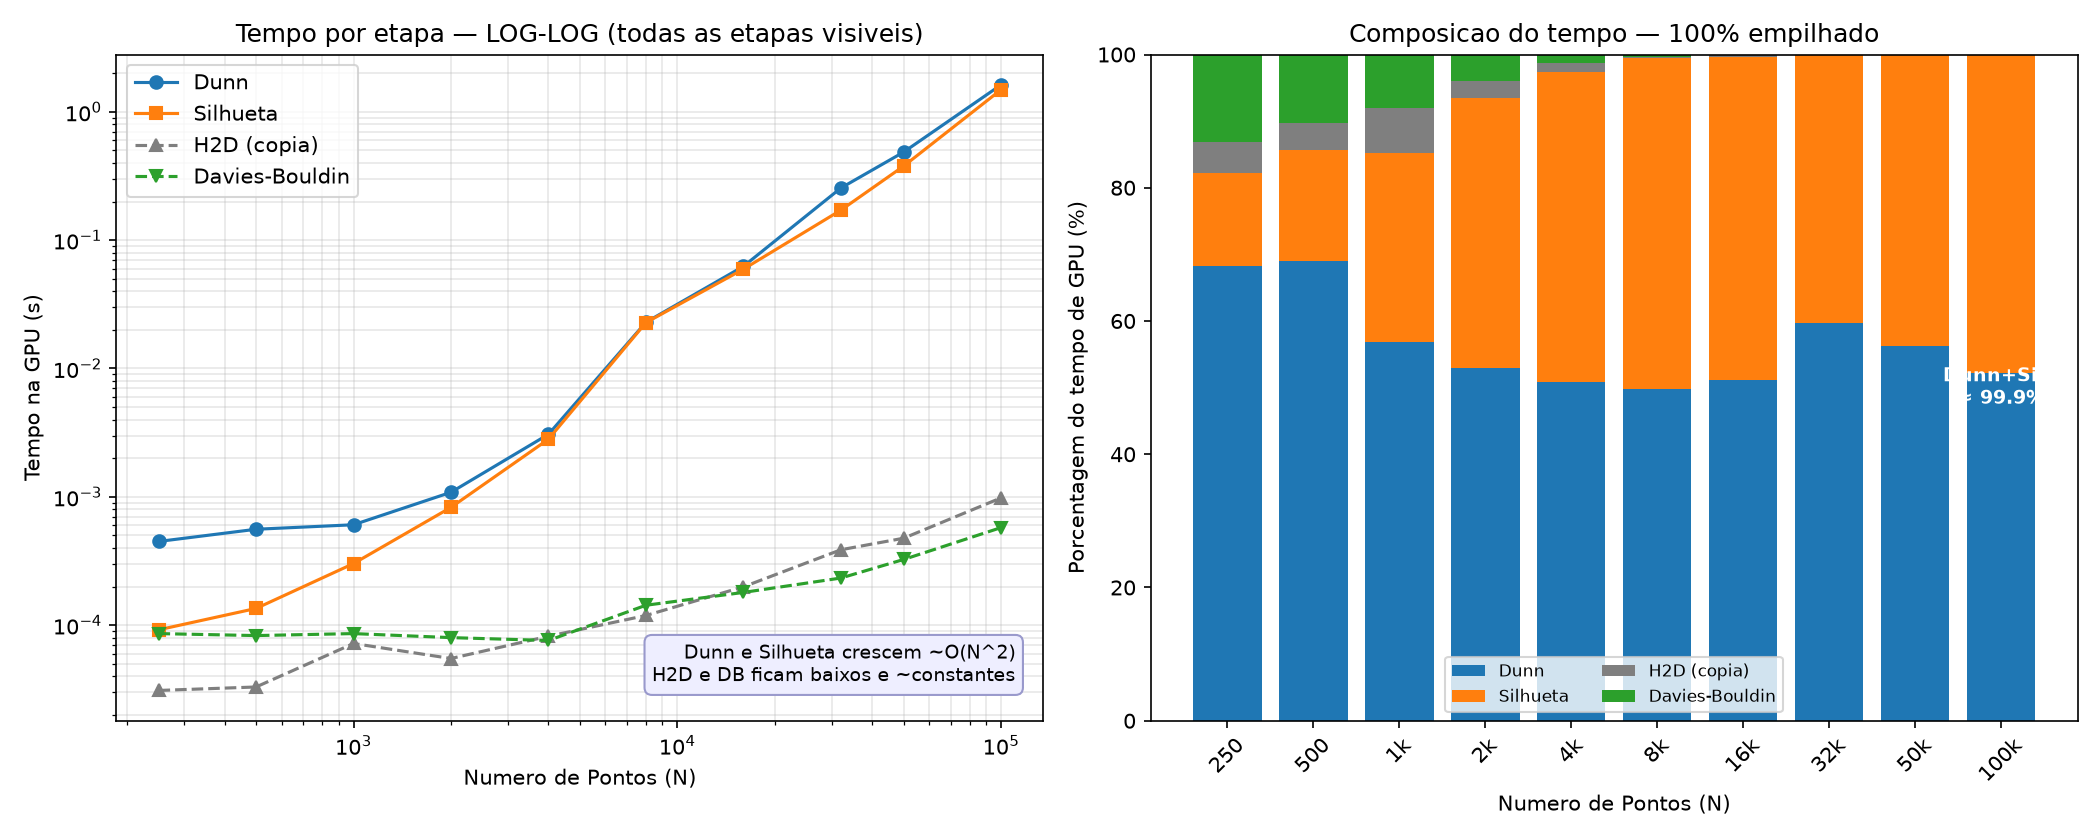
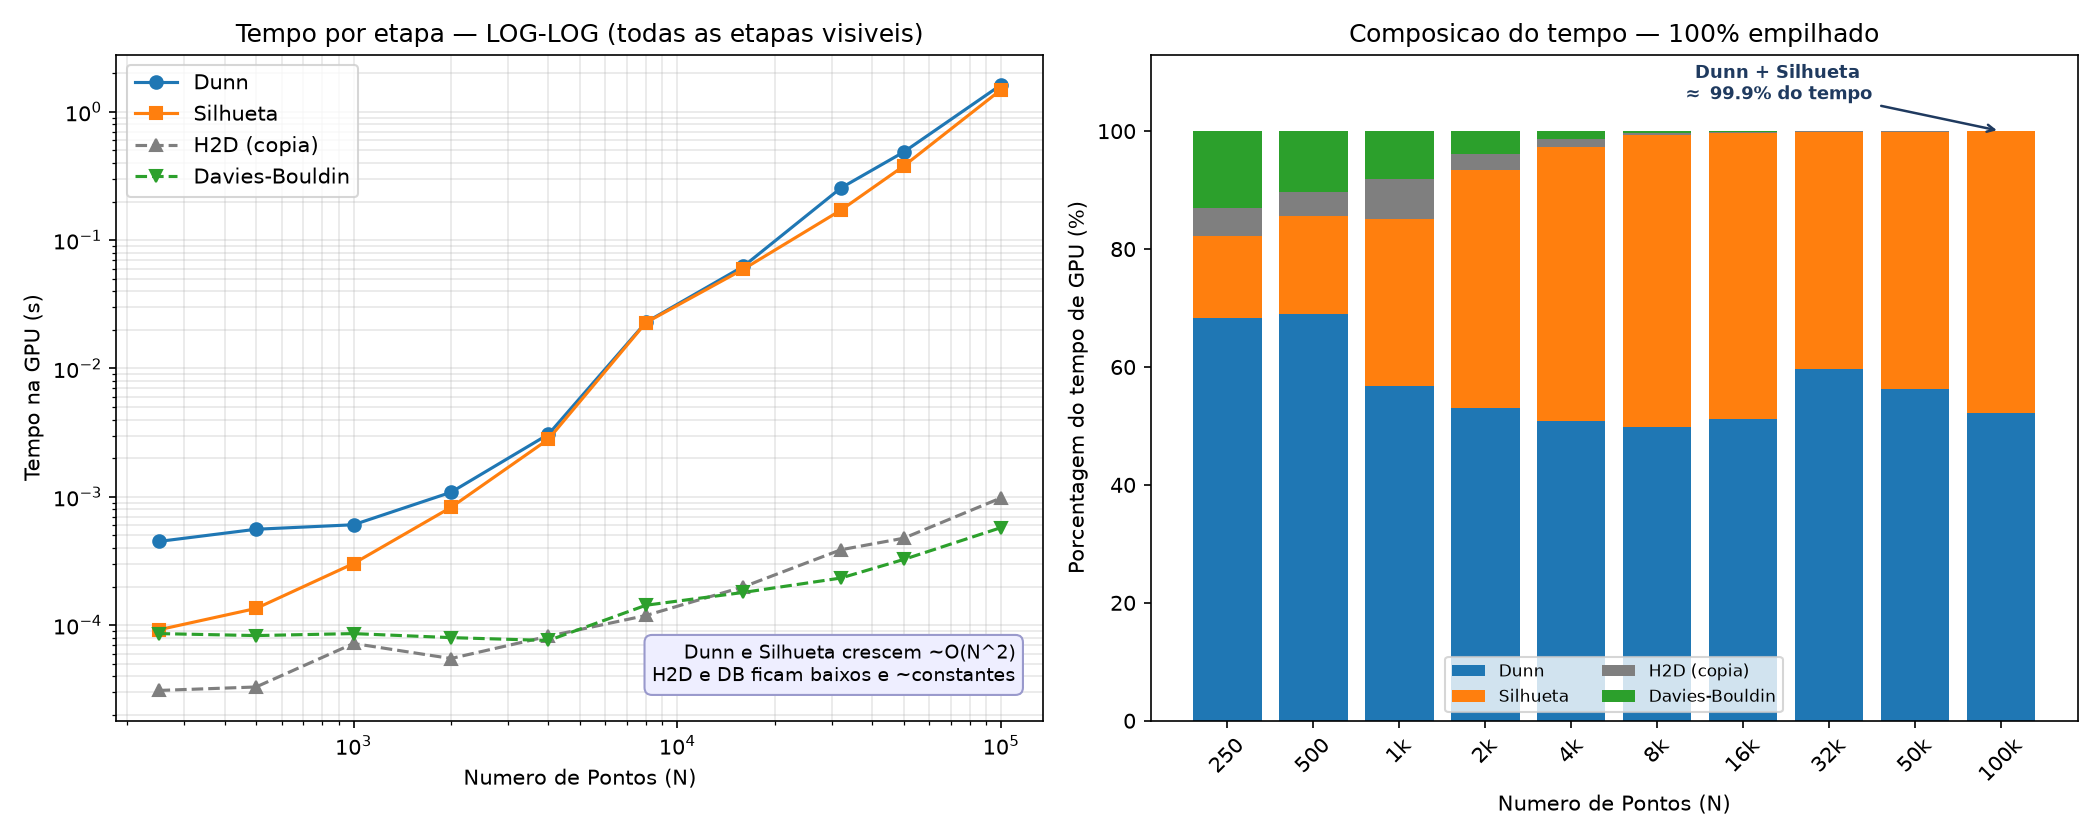
Corrige rotulo cortado no grafico de breakdown (slide 13)
O callout "Dunn+Silhueta ~99.9%" estava centrado na ultima barra (100k)
e vazava na borda direita do painel. Agora fica numa faixa de folga acima
das barras (ylim 0-113) com seta apontando para a barra de 100k, sem corte.

Claude-Session: https://claude.ai/code/session_019pgioz6oEQxJzb4JBF2DQj

diff --git a/gerar_graficos.py b/gerar_graficos.py
@@ -185,11 +185,16 @@ def grafico_breakdown(df):
     axR.set_ylabel("Porcentagem do tempo de GPU (%)")
     axR.set_title("Composicao do tempo — 100% empilhado")
     axR.legend(loc="lower center", ncol=2, fontsize=8)
-    axR.set_ylim(0, 100)
-    # anota o percentual Dunn+Silhueta no maior N
+    axR.set_ylim(0, 113)  # folga acima dos 100% para o callout (evita corte na borda)
+    # callout do percentual Dunn+Silhueta no maior N: acima das barras, com seta,
+    # ancorado para o interior para nunca cortar na borda direita
     i = len(N) - 1
-    axR.text(x[i], 50, f"Dunn+Silh\n≈ {p_dunn[i] + p_silh[i]:.1f}%",
-             ha="center", va="center", fontsize=9, color="white", fontweight="bold")
+    axR.annotate(f"Dunn + Silhueta\n$\\approx$ {p_dunn[i] + p_silh[i]:.1f}% do tempo",
+                 xy=(x[i], 100), xytext=(x[i] - 2.6, 108),
+                 ha="center", va="center", fontsize=8.5, fontweight="bold",
+                 color="#1f3a5f",
+                 arrowprops=dict(arrowstyle="->", color="#1f3a5f", lw=1.2),
+                 annotation_clip=False)
 
     plt.tight_layout()
     plt.savefig("bench_breakdown.png", dpi=150)